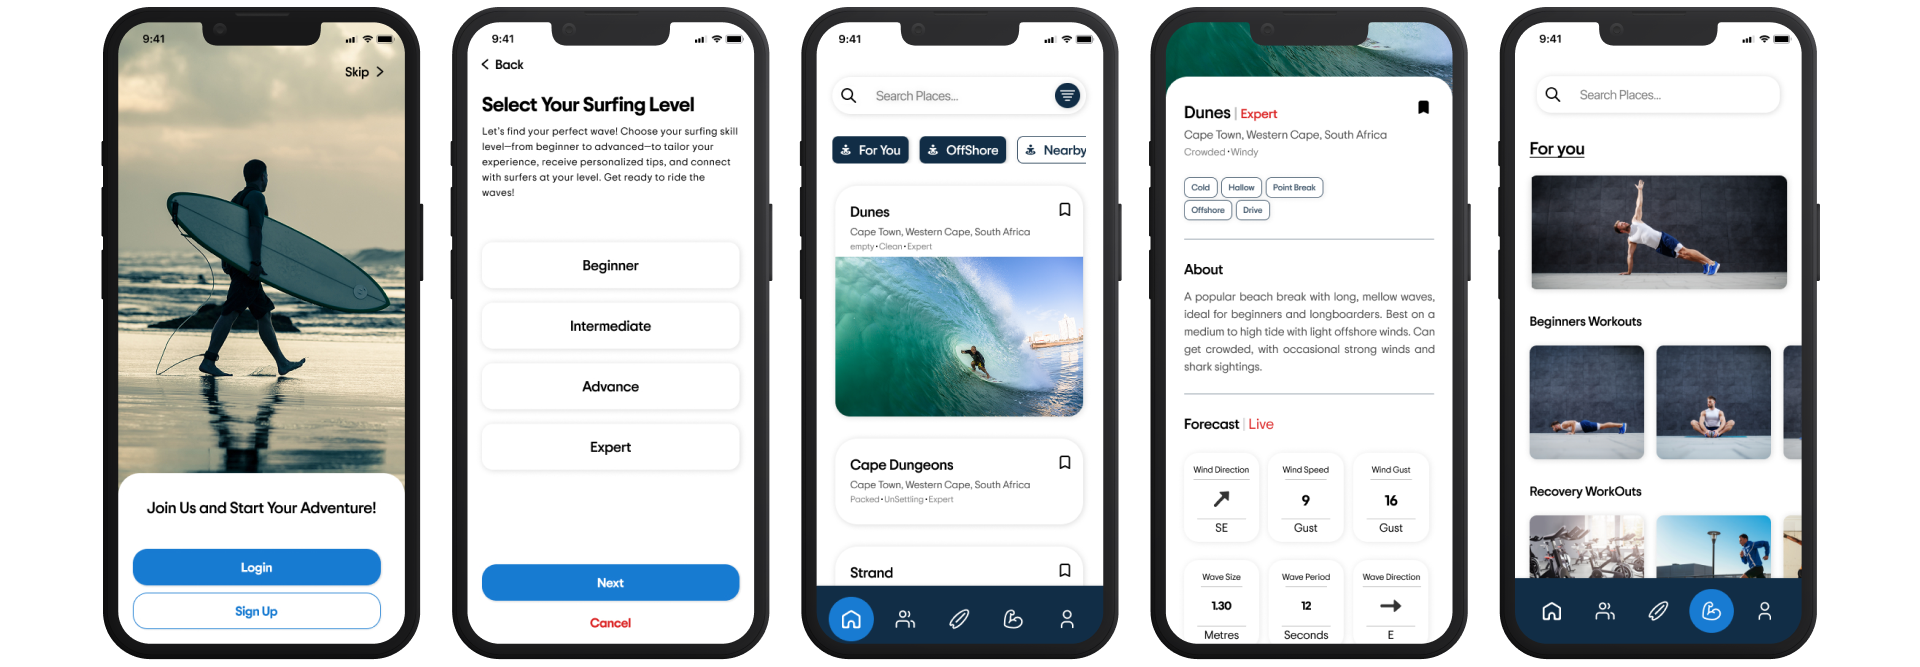
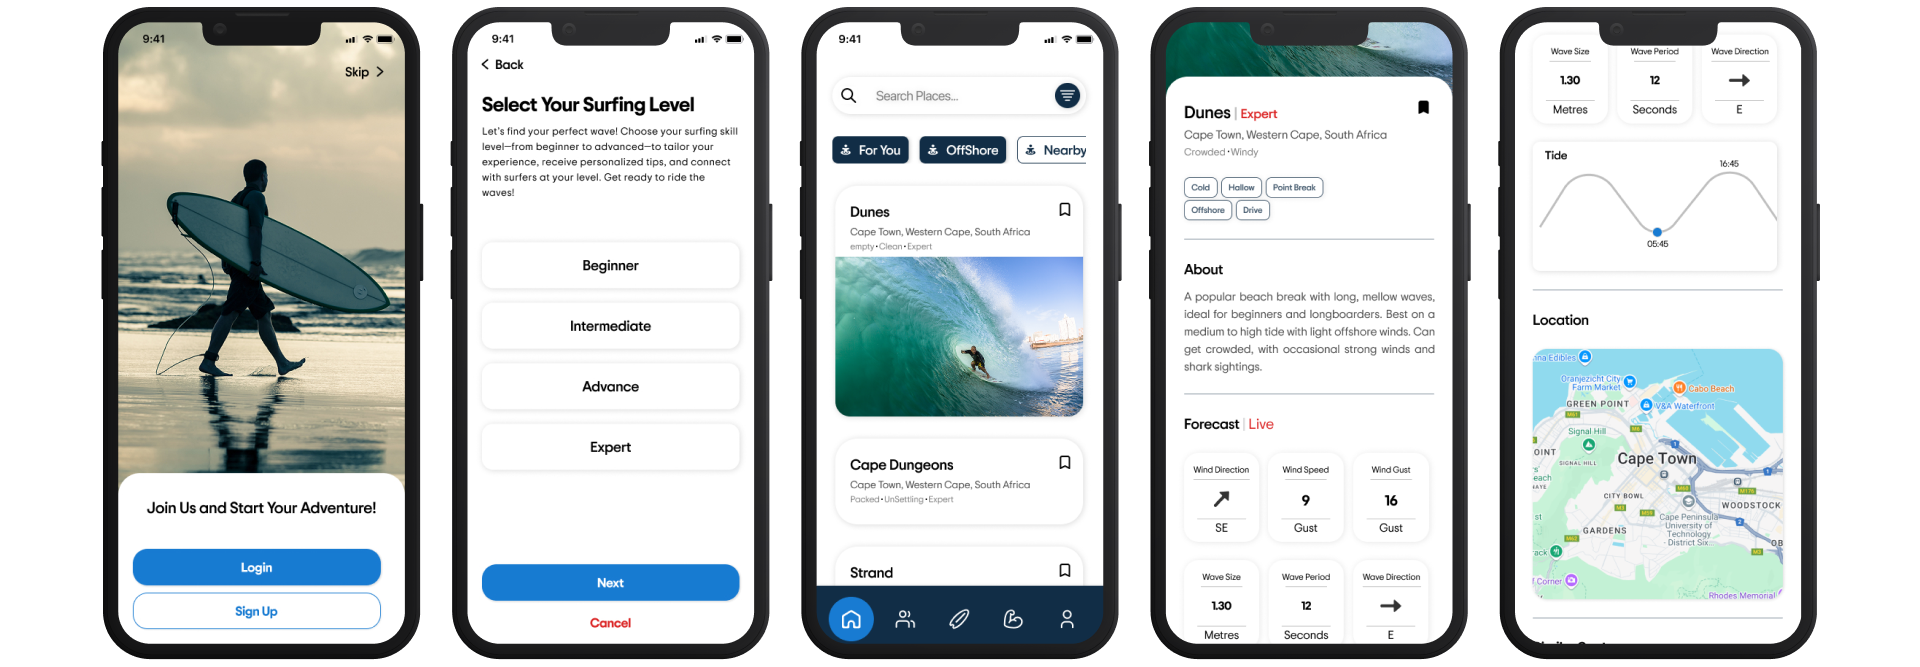
Add lightbox functionality and update user flow diagrams in project pages

Changed region(s): [[0.7812, 0.2099, 0.9375, 0.9895], [0.8125, 0.03, 0.9375, 0.09], [0.8125, 0.1199, 0.875, 0.1799]]

diff --git a/projects/projects_school/eddy/index.html b/projects/projects_school/eddy/index.html
@@ -454,46 +454,35 @@
                 </div>
             </div>
             <div class="swatch" style="background:#fff; box-shadow: inset 0 0 0 1px rgba(0,0,0,0.08);">
-                <span class="swatch-name">[Colour name]</span>
+                <span class="swatch-name">White</span>
                 <div class="swatch-values">
                     <span class="hex">#ffffff</span>
                 </div>
             </div>
         </div>
-
-        <!-- Copy the .palette-primary pattern above for a .palette-secondary
-            (grid-template-columns: repeat(4, 1fr)) or .palette-neutrals
-            (repeat(5, 1fr)) group if the project needs them -->
-
-    <div class="palette-group-label">Type scale</div>
+    <div class="palette-group-label">Type scale </div>
+    <p>font that was chosen was trip sans</p>
         <div class="type-scale-table">
             <div class="type-scale-row">
                 <div class="type-scale-meta">
-                    <span class="label">[Display / H1]</span>
-                    <span>[size · weight · line-height]</span>
+                    <span class="label">Display / H1</span>
+                    <span>28 · 700 · 150%</span>
                 </div>
-                <div>[Example heading text]</div>
+                <div>Find your next favourite spot</div>
             </div>
         <div class="type-scale-row">
                 <div class="type-scale-meta">
                     <span class="label">[Body]</span>
-                    <span>[size · weight · line-height]</span>
+                    <span>14 · 500 · 150%</span>
                 </div>
-                <div>[Example body text]</div>
+                <div>Browse honest reviews, compare options side by side, and save the places you love so they're ready when you are.</div>
             </div>
         <div class="type-scale-row">
                 <div class="type-scale-meta">
                     <span class="label">[Body]</span>
-                    <span>[size · weight · line-height]</span>
+                    <span>12 · 400 · 150%</span>
                 </div>
-                <div>[Example body text]</div>
-            </div>
-        <div class="type-scale-row">
-                <div class="type-scale-meta">
-                    <span class="label">[Body]</span>
-                    <span>[size · weight · line-height]</span>
-                </div>
-                <div>[Example body text]</div>
+                <div>Updated 2 hours ago · 128 reviews · Free cancellation on most bookings</div>
             </div>
         </div>
 </section>
@@ -503,31 +492,7 @@
         <h2 class="content-title">What does the final design look like?</h2>
         <p class="content-body">Your content here...</p>
 
-<div class="content-img">
-        </div>
-        <p class="content-caption">Feed → Story → Call to action → Taking action → Sharing</p>
-        <h4 class="content-subtitle">Screens</h4>
-        
-        <div class="card-grid-5">
-            <div class="ui-tile">
-                <img src="/projects/echo/images/ui-feed.png" alt="Home feed showing verified youth stories">
-            </div>
-            <div class="ui-tile">
-                <img src="/projects/echo/images/ui-story.png" alt="An individual story page with the help-out prompt">
-            </div>
-            <div class="ui-tile">
-                <img src="/projects/echo/images/ui-petition.png" alt="Petition signing screen with signature field">
-            </div>
-            <div class="ui-tile">
-                <img src="/projects/echo/images/ui-profile.png" alt="Profile page showing petitions signed and recent advocacy">
-            </div>
-            <div class="ui-tile">
-                <img src="/projects/echo/images/ui-badges.png" alt="Badge categories and badges earned">
-            </div>
-            <div class="ui-tile">
-                <img src="/projects/echo/images/ui-leaderboard.png" alt="Leaderboard showing rank and placement">
-            </div>
-        </div>
+        <img src="/projects/projects_school/eddy/images/eddy-other.png" alt="Eddy final designs" class="content-img content-img--full">
 
         <p class="content-body">The bottom row is my half of the build — the profile, badges and leaderboard. The top row is George's home page and petition flow.</p>
 

diff --git a/projects/projects_school/caus/index.html b/projects/projects_school/caus/index.html
@@ -4,9 +4,12 @@
     <meta charset="UTF-8">
     <meta name="viewport" content="width=device-width, initial-scale=1.0">
     <title>Caus. - Sebastian Harris</title>
+    
     <link rel="stylesheet" href="/css/style.css">
     <link rel="stylesheet" href="/css/project.css">
+    
     <script src="/components/scripts/sidebar-scroll.js" defer></script>
+    <script src="/components/scripts/lightbox.js" defer></script>
 </head>
 <body>
 
@@ -481,9 +484,10 @@
         <!-- IMAGE NEEDED: IA diagram → /projects/caus/images/information-architecture.png -->
         <p class="content-body">Onboarding leads into the home page, which branches into eight areas: home feed, meme details, remix, map, profile, forum, petition and protest. Petitions and protests both link back to the meme that surfaced them, so the loop closes in both directions. Sharing or completing an action earns points.</p>
 
-        <h4 class="content-subtitle">User flow</h4>
-        <p class="content-caption">Feed → Story → Call to action → Taking action → Sharing</p>
-        <p class="content-body">Four flows carry the product. A user searches the feed, sees a meme's variants and remixes, opens its detail page and finds the campaign attached to it. From the meme detail they reach the protest and join it. On the map, dropped pins open protest cards. On the remix page they download the original, edit it, and post — earning points for the share.</p>
+        <h4 class="content-subtitle">The flow that mattered most</h4>
+        <img src="/projects/projects_school/caus/images/caus-main-flow.png" alt="User flow diagram showing the path from feed to action and back to sharing" class="content-img">
+                <p class="content-caption">Feed → Story → Call to action → Taking action → Sharing</p>
+
 
         <h4 class="content-subtitle">Wireframes</h4>
         <!-- IMAGE NEEDED: wireframe frames → /projects/caus/images/wireframes.png -->

diff --git a/projects/projects_school/echo/index.html b/projects/projects_school/echo/index.html
@@ -360,7 +360,8 @@
             <span class="desc">Surf-specific workouts, breathwork, recovery</span>
         </div>
     </div>
-
+        
+        <h4 class="content-subtitle">The flow that mattered most</h4>
         <p class="content-body">Feed → Story → Call to action → Taking action → Sharing</p>        
         <img src="/projects/projects_school/echo/images/flows/echo-main-flow.png" class="content-img content-img--full" alt="User flow diagram showing the path from feed to story to call to action to taking action to sharing">
 
@@ -386,7 +387,7 @@
                 </div>
             </div>
             <div class="swatch" style="background:#fff; box-shadow: inset 0 0 0 1px rgba(0,0,0,0.08);">
-                <span class="swatch-name">[Colour name]</span>
+                <span class="swatch-name">White</span>
                 <div class="swatch-values">
                     <span class="hex">#ffffff</span>
                 </div>
